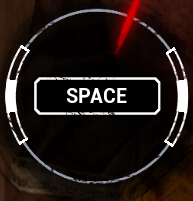
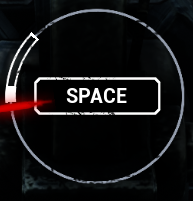
created pop up for starting and stopping, adding multithreading to screen grab to support menu and program operations

diff --git a/dbd/main.py b/dbd/main.py
@@ -1,15 +1,37 @@
 from screen.tracking import track_loop
 import cProfile
+import time
 
-# pr = cProfile.Profile()
-# pr.enable()
+import tkinter as tk
+from threading import Thread
 
+running = False
 
+def run_program():
+    try: 
+        while running:
+            track_loop()  # Add your necessary arguments
+            time.sleep(0.0001)  # Or whatever interval you want
+    except KeyboardInterrupt:
+        stop()  # Or any other cleanup code you need
 
-track_loop()
+def start():
+    global running
+    running = True
+    thread = Thread(target=run_program)
+    thread.start()
+    
 
-# pr.disable()
-# pr.print_stats(sort='cumtime')
+def stop():
+    global running
+    running = False
 
-#cProfile.run("track_loop()", filename="my_program.prof") 
-                       
+root = tk.Tk()
+
+start_button = tk.Button(root, text="Start", command=start)
+start_button.pack()
+
+stop_button = tk.Button(root, text="Stop", command=stop)
+stop_button.pack()
+
+root.mainloop()

diff --git a/dbd/screen/screen_grab.py b/dbd/screen/screen_grab.py
@@ -30,7 +30,8 @@ def capture_percentage_of_primary_screen(percentage):
     region = {'top': int(top_left_y)-15, 'left': int(top_left_x), 'width': int(box_width), 'height': int(box_height)}
 
     # Grab the portion of the screen defined by the box with mss
-    img = sct.grab(region)
+    with mss() as sct:
+        img = sct.grab(region)
 
     # since mss return image in BGRA, we need to convert it to RGB
     img = Image.frombytes('RGB', img.size, img.bgra, 'raw', 'BGRX')
